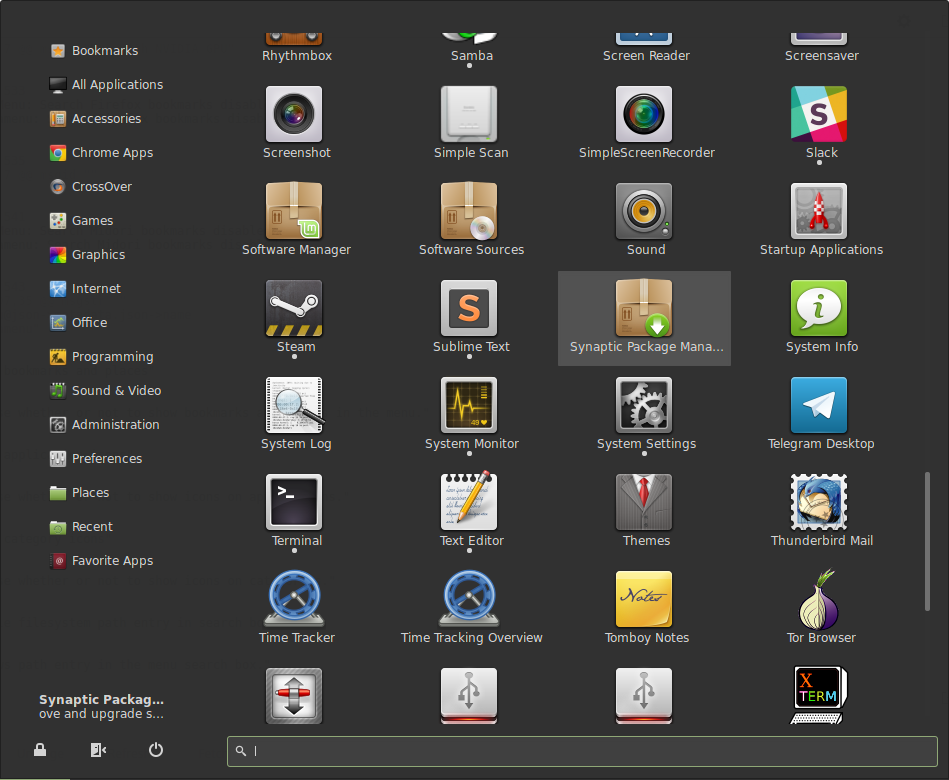
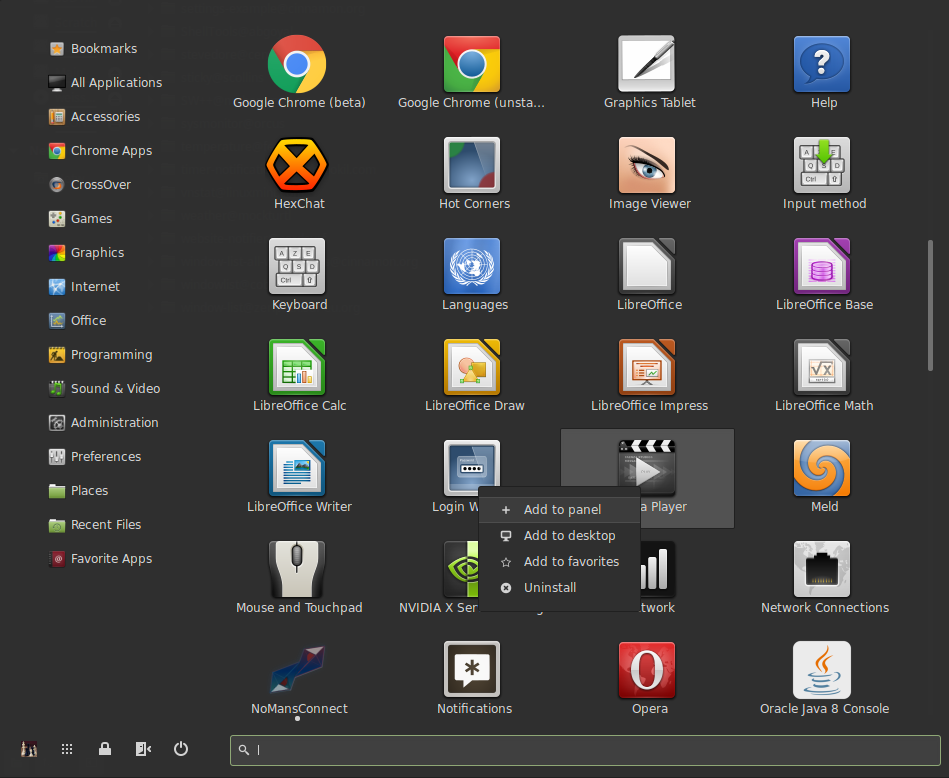
Update metadata.json, chanegelog, screenshot

diff --git a/Cinnamenu@json/CHANGELOG.md b/Cinnamenu@json/CHANGELOG.md
@@ -8,12 +8,20 @@ Changelog
   * Added settings from the default menu that were missing.
     * Translations for these were added from CinnVIIStarkMenu's PO files.
   * Added an option to display the description on each app button.
+  * Added a user account button showing the current user's avatar.
+  * Added key navigation.
+  * Added a "Clear List" button for recent files.
+  * Renamed the Recent category to Recent Files.
   * Descriptions now scroll horizontally if they are truncated.
   * Faster fuzzy searching.
     * Searches now highlight the matching characters in item names and descriptions.
   * Added filesystem path entry autocompletion based on the Cinnamon menu's code.
+  * Added highlighting for newly installed apps.
   * Formatted the settings using the layout API.
   * Removed a lot of stale/dead code from the Gno-menu project, and refactored a lot of the button handling.
+  * Removed automatic icon scaling.
+  *  Fixed Opera bookmarks.
+  * Fixed the missing gda library error message.
 
 ### 1.3.1
 
